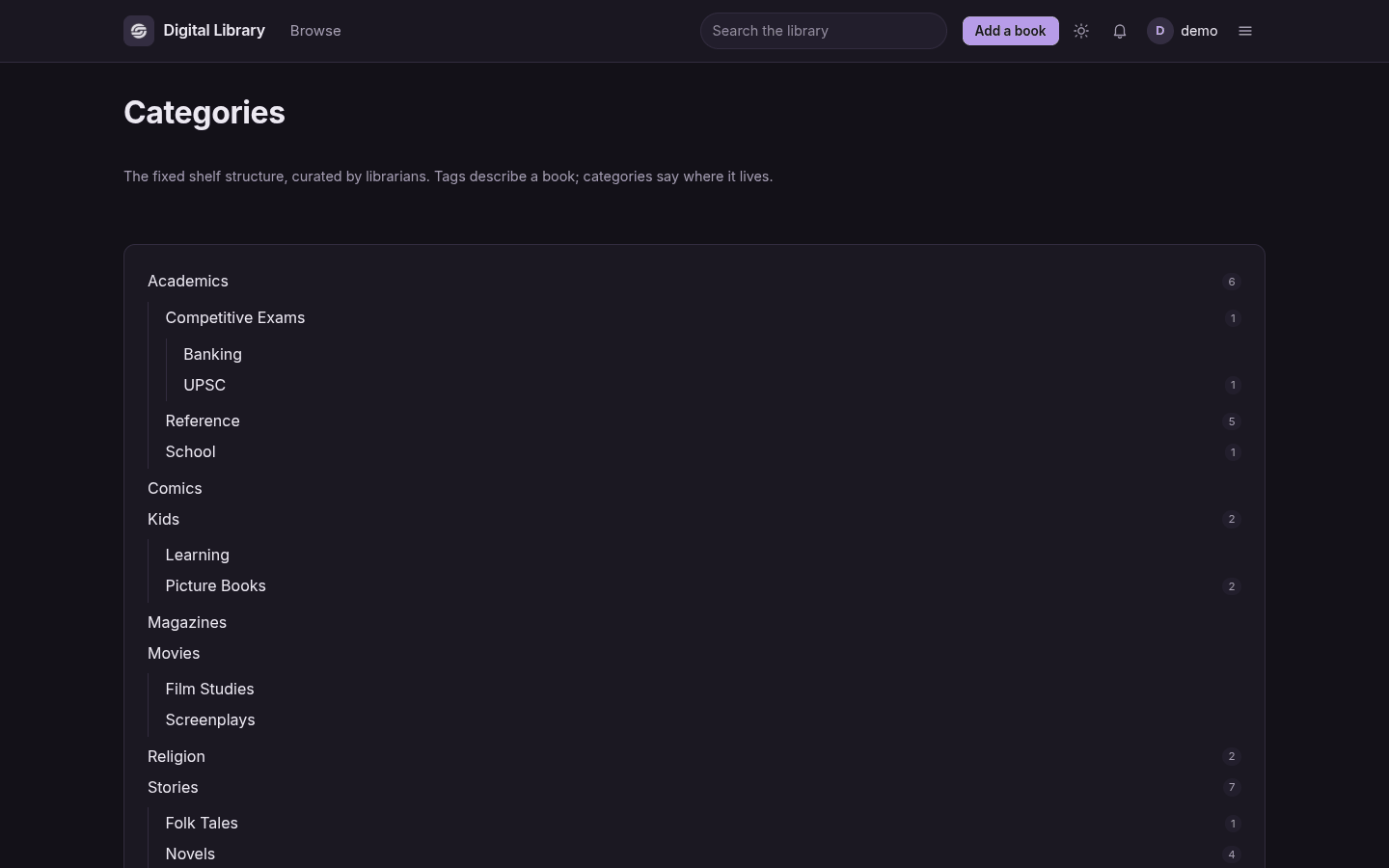
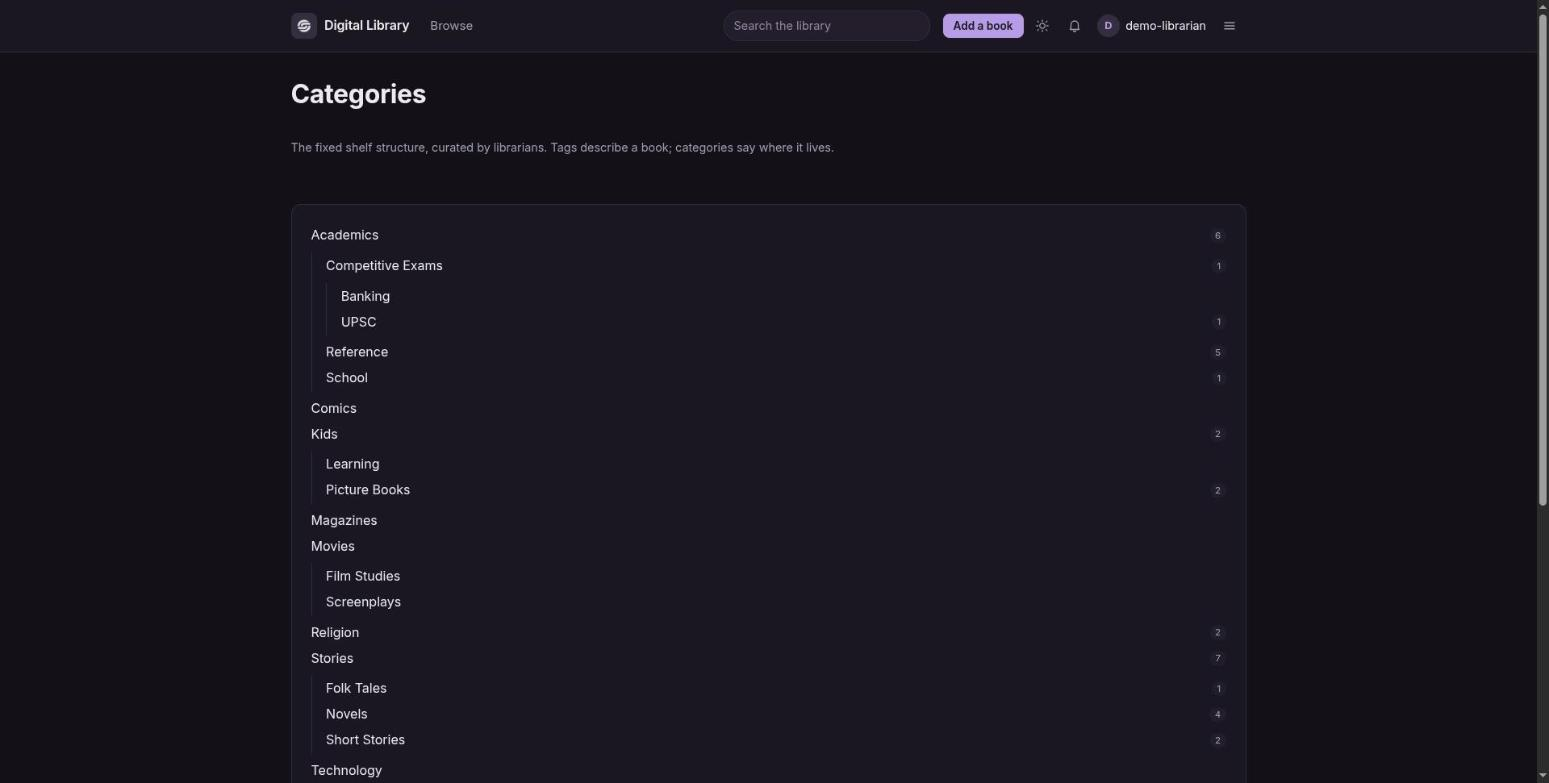
recapture the gallery against the seeded catalogue, now that the shelf has covers

diff --git a/DEVDOC.md b/DEVDOC.md
@@ -1499,14 +1499,26 @@ same report as JSON, with 200 when everything is ready and 503 when it is not.
 ### With Docker
 
 ```bash
-docker compose up --build           # app on http://localhost:8000, MySQL on 3307
-docker compose exec app php cli/console.php migrate
-docker compose --profile tools up adminer   # optional, on :8080
+docker compose up --build                        # app on http://localhost:8000, MySQL on 3307
+docker compose exec -u www-data app php cli/console.php migrate
+docker compose exec -u www-data app php cli/console.php db:seed
+docker compose --profile tools up adminer        # optional, on :8080
 ```
 
 The checkout is bind-mounted so edits are live, but `storage/` is a named volume
 so uploads survive a rebuild and Apache's `www-data` never writes into your
 working copy.
+
+**Run the console as `www-data`, not as root.** `docker compose exec` defaults to
+root, and anything the console writes into `storage/` - a seeded cover, a
+generated one, an uploaded file - is then owned by root with mode 0640. Apache
+runs as `www-data` and cannot read it, so every cover 404s and the shelf looks
+like a broken feature rather than a permissions mistake. If it has already
+happened:
+
+```bash
+docker compose exec -u root app chown -R www-data:www-data storage
+```
 
 ## Deployment
 

diff --git a/README.md b/README.md
@@ -70,7 +70,7 @@ identical file icons is not a library.
 
 ## Screenshots
 
-Every image is a real 1440x900 viewport render against the seeded catalogue. This page shows **dark mode**; the same gallery in light mode is at **[README-light.md](./README-light.md)**.
+Every image is a real 1920x1027 desktop viewport render against the seeded catalogue, covers included. This page shows **dark mode**; the same gallery in light mode is at **[README-light.md](./README-light.md)**.
 
 <table>
   <tr>
@@ -250,7 +250,16 @@ Imagick, `pdftoppm` (poppler-utils) or Ghostscript, in that order, and a host wi
 none of them silently makes no covers. The Docker image installs poppler-utils for
 you; anywhere else it is on you.
 
-Then register through the sign-up form and promote yourself:
+Then register through the sign-up form - the first account becomes the
+administrator - and seed the public domain catalogue:
+
+```bash
+docker compose exec -u www-data app php cli/console.php db:seed
+```
+
+Run the console as `www-data`. `docker compose exec` is root by default, and
+files it writes into `storage/` are then unreadable by Apache, which shows up as
+covers that 404 rather than as a permissions error. To promote a later account:
 
 ```bash
 php cli/console.php user:promote you@example.com admin

diff --git a/README-light.md b/README-light.md
@@ -72,7 +72,7 @@ identical file icons is not a library.
 
 ## Screenshots
 
-Every image is a real 1440x900 viewport render against the seeded catalogue. This page shows **light mode**; the same gallery in dark mode is at **[README.md](./README.md)**.
+Every image is a real 1920x1027 desktop viewport render against the seeded catalogue, covers included. This page shows **light mode**; the same gallery in dark mode is at **[README.md](./README.md)**.
 
 <table>
   <tr>
